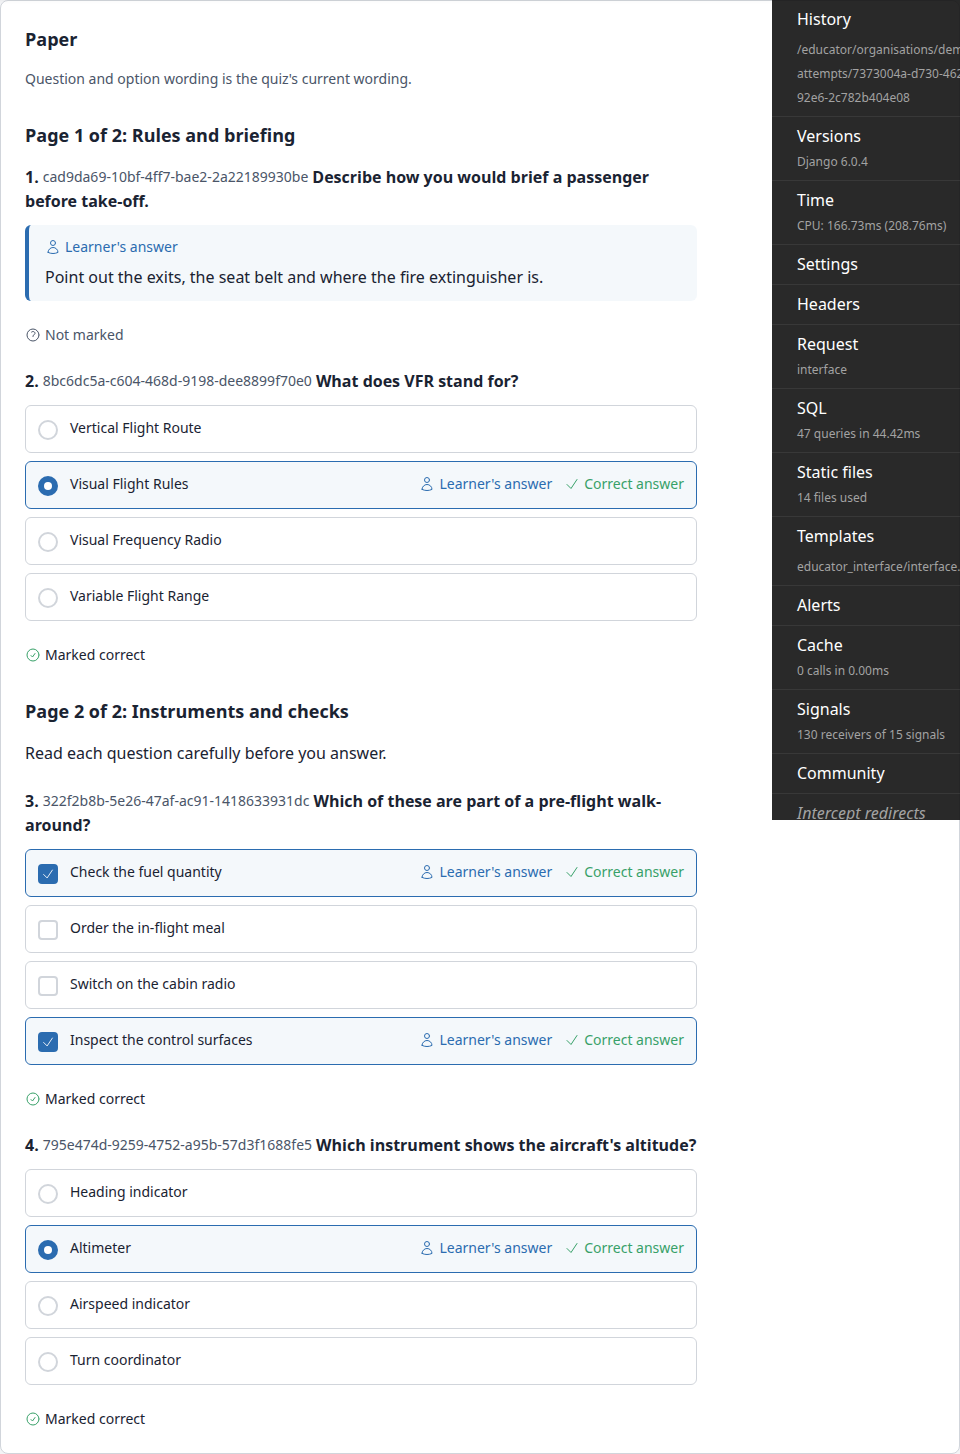
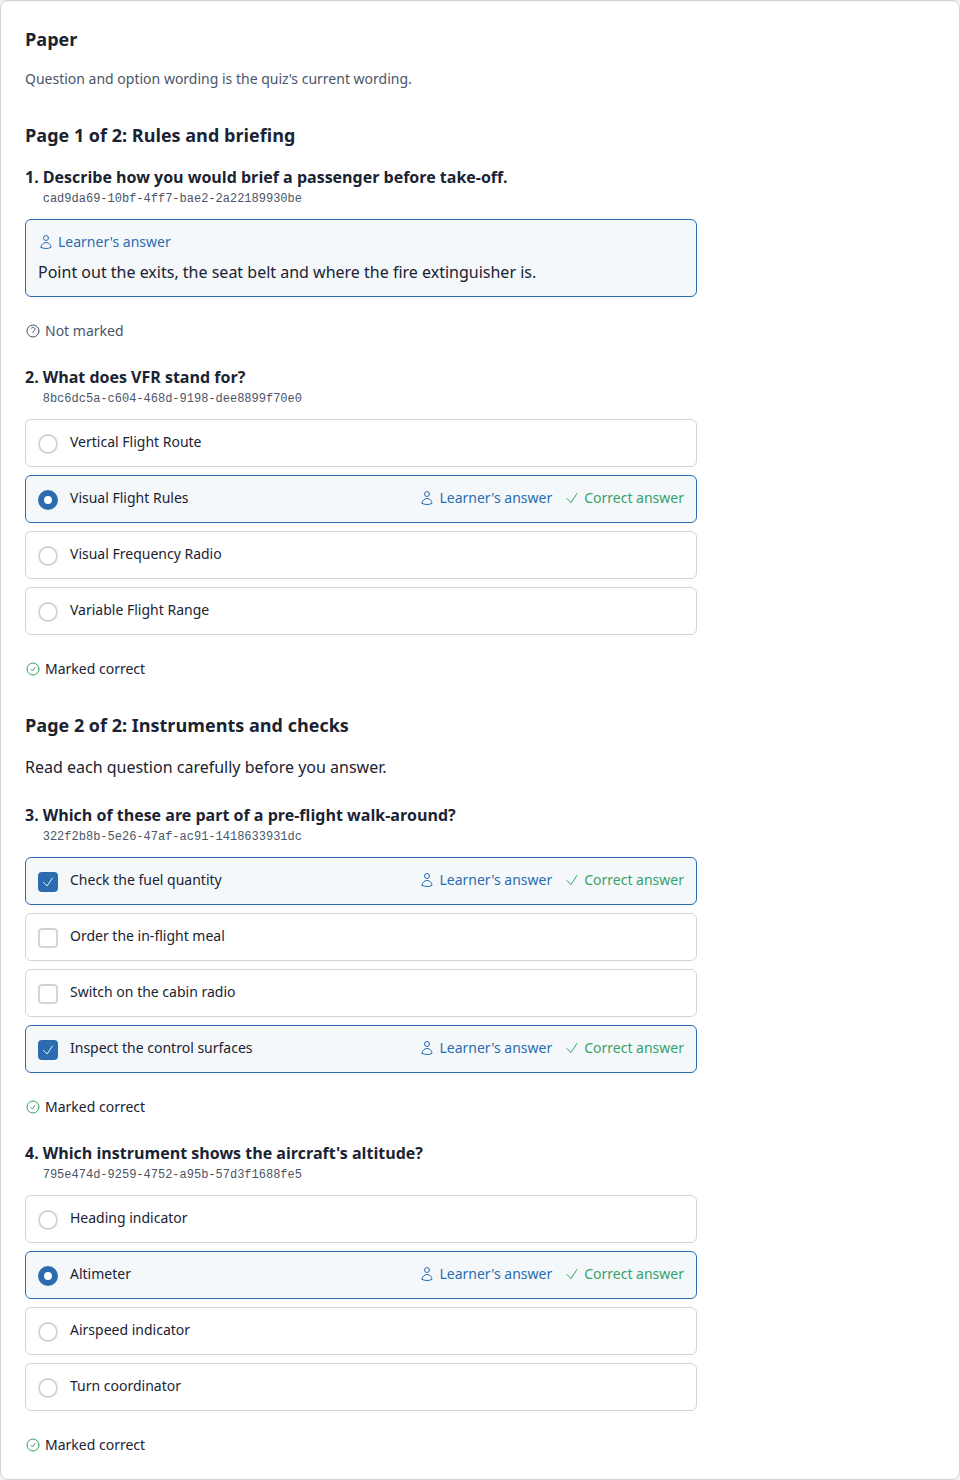
Outline the attempt review's answer box and put the question id under the text
A typed or file answer sat in a box with a thick start bar and a tint: the
admonition look, built by hand. It now uses a chosen option row's box (1px
primary border, light primary fill). The question heading reads "n. text"
with the id under it in small muted monospace.

test_app_templates_hand_build_no_admonition_look fails on a thick start
border in any app template outside the content engine, so the look can't be
hand-built again. The toast and course_form_complete.html are exempt by name.

diff --git a/freedom_ls/form_engine/templates/form_engine/answers/question.html b/freedom_ls/form_engine/templates/form_engine/answers/question.html
@@ -6,14 +6,18 @@ then the answer. Never a form field: a disabled field looks editable.
 Reads: question, question_positions, existing_answers, sitting_path (for
 {% question_options %}), plus the answer-key flag options.html reads.
 
-The number and id float so the question's first paragraph runs on beside
-them; flow-root keeps the floats inside the heading.
+The heading reads "n. question text", with the question id on its own line
+under the text, small, muted and monospace.
 {% endcomment %}
 <div class="flex flex-col gap-3" data-testid="answered-question">
-    <div class="flow-root font-semibold text-on-surface [&>p:last-of-type]:inline">
-        {% with position=question_positions|get_dict_item:question.id %}<span class="float-left mr-1">{{ position }}.</span>{% endwith %}
-        <span class="float-left mr-1 text-sm font-normal leading-6 text-muted">{{ question.id }}</span>
-        {{ question.rendered_question }}
+    <div class="flex gap-1 font-semibold text-on-surface">
+        {% with position=question_positions|get_dict_item:question.id %}<span class="flex-none">{{ position }}.</span>{% endwith %}
+        <div class="flex min-w-0 flex-col gap-0.5">
+            <div class="[&>p:first-child]:mt-0 [&>p:last-child]:mb-0"
+                 data-testid="question-text">{{ question.rendered_question }}</div>
+            <code class="break-all font-mono text-xs font-normal text-muted"
+                  data-testid="question-id">{{ question.id }}</code>
+        </div>
     </div>
     {% with answer=existing_answers|get_dict_item:question.id %}
         {% if question.type == "multiple_choice" or question.type == "dropdown" %}

diff --git a/freedom_ls/form_engine/templates/form_engine/answers/text.html b/freedom_ls/form_engine/templates/form_engine/answers/text.html
@@ -1,12 +1,13 @@
 {% comment %}
-A typed answer (text, number, date, time, email, URL or phone) as text, in a
-block labelled as the learner's answer and tinted like a chosen option. An
+A typed answer (text, number, date, time, email, URL or phone) as text, under
+the learner's-answer label, in the chosen option row's box (1px border, light
+fill). Never a thick start bar: that is the admonition look. An
 unanswered question draws nothing: the reader's verdict line says so.
 
 Reads: answer (or None).
 {% endcomment %}
 {% if answer.text_answer %}
-    <div class="flex flex-col gap-2 rounded-md border-s-4 border-primary bg-primary/5 px-4 py-3"
+    <div class="flex flex-col gap-2 rounded-md border border-primary bg-primary/5 p-3"
          data-testid="text-answer">
         <c-learner-answer-mark />
         <p class="whitespace-pre-line break-words text-on-surface">{{ answer.text_answer }}</p>

diff --git a/freedom_ls/form_engine/templates/form_engine/answers/file.html b/freedom_ls/form_engine/templates/form_engine/answers/file.html
@@ -1,11 +1,11 @@
 {% comment %}
-A file answer: the file's name and size, in the same labelled block as a
+A file answer: the file's name and size, in the same labelled box as a
 typed answer. No upload, replace or remove controls.
 
 Reads: answer (or None), with answer_file prefetched.
 {% endcomment %}
 {% if answer.answer_file %}
-    <div class="flex flex-col gap-2 rounded-md border-s-4 border-primary bg-primary/5 px-4 py-3"
+    <div class="flex flex-col gap-2 rounded-md border border-primary bg-primary/5 p-3"
          data-testid="text-answer">
         <c-learner-answer-mark />
         <p class="flex items-center gap-2 text-on-surface">

diff --git a/freedom_ls/form_engine/tests/test_answer_templates.py b/freedom_ls/form_engine/tests/test_answer_templates.py
@@ -75,6 +75,18 @@ def test_the_question_shows_its_number_id_and_text():
     assert "Which one?" in text
 
 
+def test_the_question_id_sits_under_the_question_text_as_code():
+    question = _question("long_text")
+
+    document = _render(question, None)
+
+    (question_text,) = document.cssselect("[data-testid='question-text']")
+    (question_id,) = document.cssselect("[data-testid='question-id']")
+    assert question_id.tag == "code"
+    assert question_id.text_content() == str(question.id)
+    assert question_text.getnext() is question_id
+
+
 @pytest.mark.parametrize("question_type", ["long_text", "short_text", "number", "date"])
 def test_a_text_answer_reads_as_text_under_the_learner_answer_label(question_type):
     question = _question(question_type)
@@ -89,6 +101,25 @@ def test_a_text_answer_reads_as_text_under_the_learner_answer_label(question_typ
     (block,) = document.cssselect("[data-testid='text-answer']")
     assert "Learner's answer" in block.text_content()
     assert "Point out the exits" in block.text_content()
+
+
+@pytest.mark.parametrize("question_type", ["long_text", "file_upload"])
+def test_an_answer_box_is_outlined_like_a_chosen_option_not_an_admonition(
+    question_type,
+):
+    question = _question(question_type)
+    answer = cast(
+        QuestionAnswer, QuestionAnswerFactory(question=question, text_answer="Yes")
+    )
+    if question_type == "file_upload":
+        QuestionAnswerFileFactory(answer=answer, original_filename="licence.pdf")
+
+    document = _render(question, answer)
+
+    (block,) = document.cssselect("[data-testid='text-answer']")
+    classes = block.get("class").split()
+    assert {"border", "border-primary", "bg-primary/5", "rounded-md"} <= set(classes)
+    assert "border-s-4" not in classes
 
 
 def test_a_long_text_answer_keeps_its_line_breaks():

diff --git a/freedom_ls/base/tests/invariants/test_app_templates_use_app_components.py b/freedom_ls/base/tests/invariants/test_app_templates_use_app_components.py
@@ -78,6 +78,38 @@ def test_app_templates_use_no_content_widget_or_callout_level(path: Path) -> Non
     )
 
 
+# A thick coloured bar down a box's start edge is the admonition's look.
+# Thin (1-2px) start borders stay allowed: they indent threads and nested lists.
+THICK_START_BORDER = re.compile(r"(?<![\w-])border-[sl]-(?:[4-8]|\[)")
+ADMONITION_LOOK_EXEMPT = {
+    # The toast's severity stripe is the toast's own design.
+    Path("base/templates/partials/_toast.html"),
+    # Predates the rule; whether it keeps the bar is an open decision.
+    Path("learner_interface/templates/learner_interface/course_form_complete.html"),
+}
+ADMONITION_LOOK_FIX = (
+    "an app template never hand-builds the admonition look; put content in a box with "
+    "a 1px border (as a chosen option row does), or use <c-callout> for a notice"
+)
+
+
+@pytest.mark.parametrize(
+    "path",
+    [
+        path
+        for path in app_templates()
+        if path.relative_to(FREEDOM_LS_DIR) not in ADMONITION_LOOK_EXEMPT
+    ],
+    ids=lambda path: str(path.relative_to(FREEDOM_LS_DIR)),
+)
+def test_app_templates_hand_build_no_admonition_look(path: Path) -> None:
+    found = THICK_START_BORDER.findall(without_comments(path.read_text()))
+
+    assert not found, (
+        f"{path.relative_to(FREEDOM_LS_DIR)} uses {found}: {ADMONITION_LOOK_FIX}"
+    )
+
+
 @pytest.mark.parametrize(
     ("markup", "expected"),
     [

diff --git a/spec_dd/2. in progress/sacaa-compliance-4-attempt-review/todo.md b/spec_dd/2. in progress/sacaa-compliance-4-attempt-review/todo.md
@@ -20,6 +20,8 @@ Checklist for taking this spec from idea to merged PR. Commands tick their own i
 - [x] (cmd) Run `/sdd:implement_plan` to execute the implementation plan
 - [x] (cmd) Run `/sdd:do_qa` to execute the QA plan
 - [x] (cmd) Attempt review draws answers through form_engine/answers/ templates (text answers as text, choice answers as option rows), not disabled quiz inputs
+- [x] (cmd) Answer box outlined like a chosen option row, not the admonition look; question id under the question text in small mono; guard test_app_templates_hand_build_no_admonition_look added
+- [ ] (user) Decide whether `learner_interface/course_form_complete.html`'s `border-l-4` box (exempt from test_app_templates_hand_build_no_admonition_look) should lose its admonition look
 - [ ] (cmd) Run `/sdd:qa_fix` to decide and fix what QA left open
 - [ ] (user) Review the code and the QA report
 - [ ] (user) Decide whether educators need their own route to download a learner's file-upload answer on the attempt review: the Paper panel reuses form_engine/inputs/file_upload.html, whose Download button points at own_question_answer_file, which appears to serve the file owner only, so the link may fail for an educator (no test covers it); if so, add an educator-side file route and a test

diff --git a/claude_plugins/fls-dev/skills/panel-framework/SKILL.md b/claude_plugins/fls-dev/skills/panel-framework/SKILL.md
@@ -561,7 +561,9 @@ Run that file after any change to a panel template.
 `freedom_ls/base/tests/invariants/test_app_templates_use_app_components.py`
 (`test_app_templates_use_no_content_widget_or_callout_level`) fails on a content-engine widget such
 as `<c-admonition>`, or a `level=` on `<c-callout>` or `<c-panel-callout>`, in any app template
-outside the content engine.
+outside the content engine. `test_app_templates_hand_build_no_admonition_look` in the same file
+fails on a thick start border (`border-s-4`/`border-l-4` and up, or an arbitrary width) in any of
+those templates: that is the admonition look, built by hand.
 
 Four guards cover the standalone backend:
 
